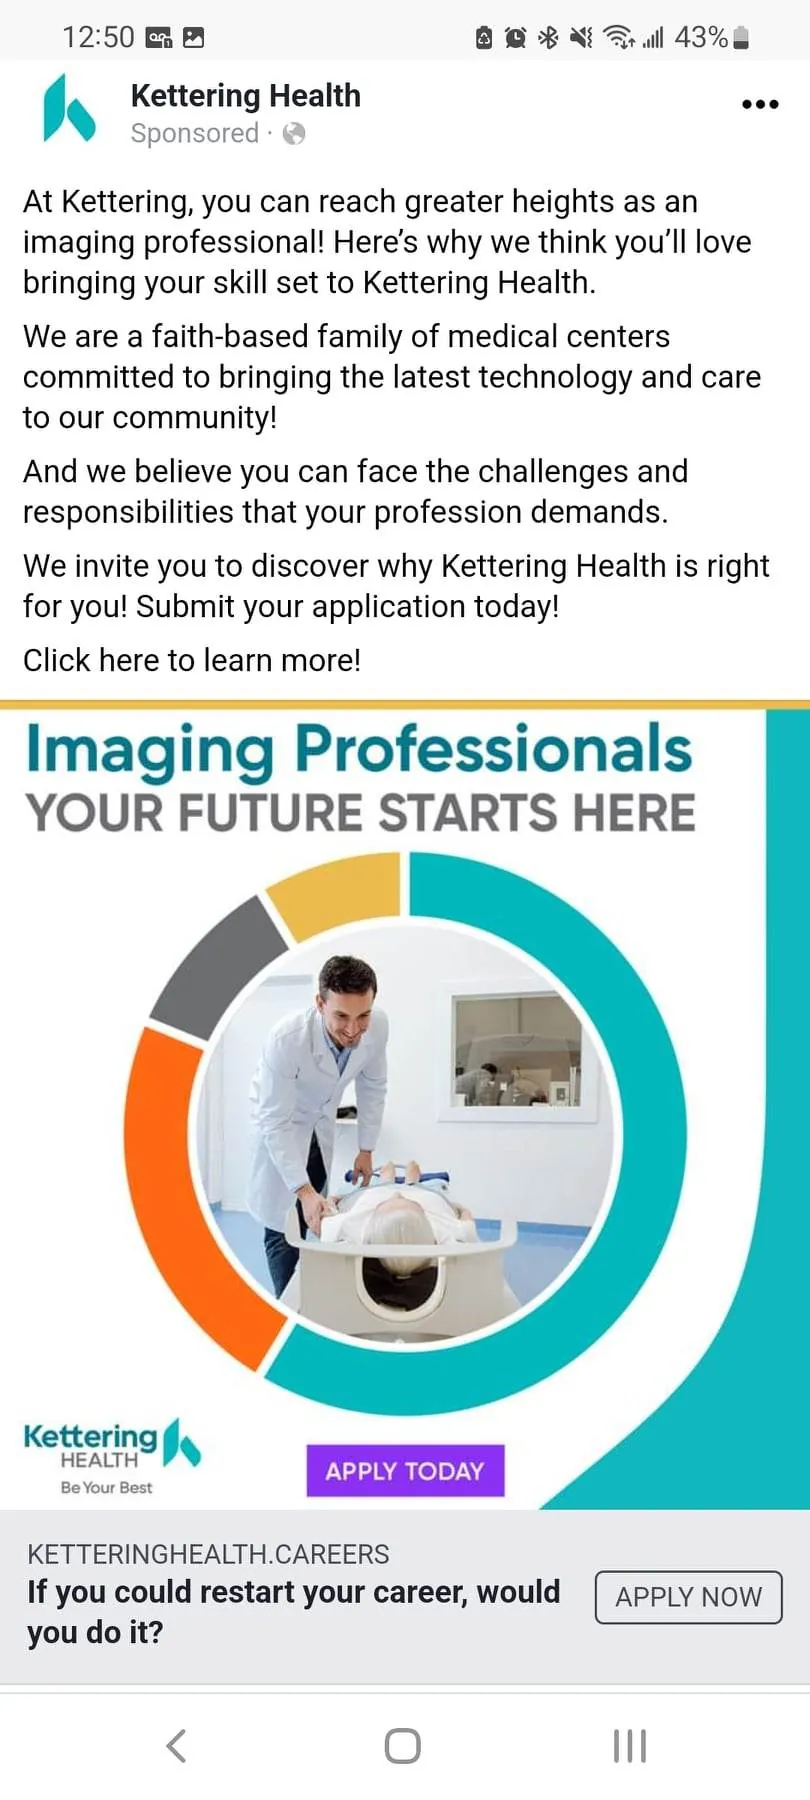
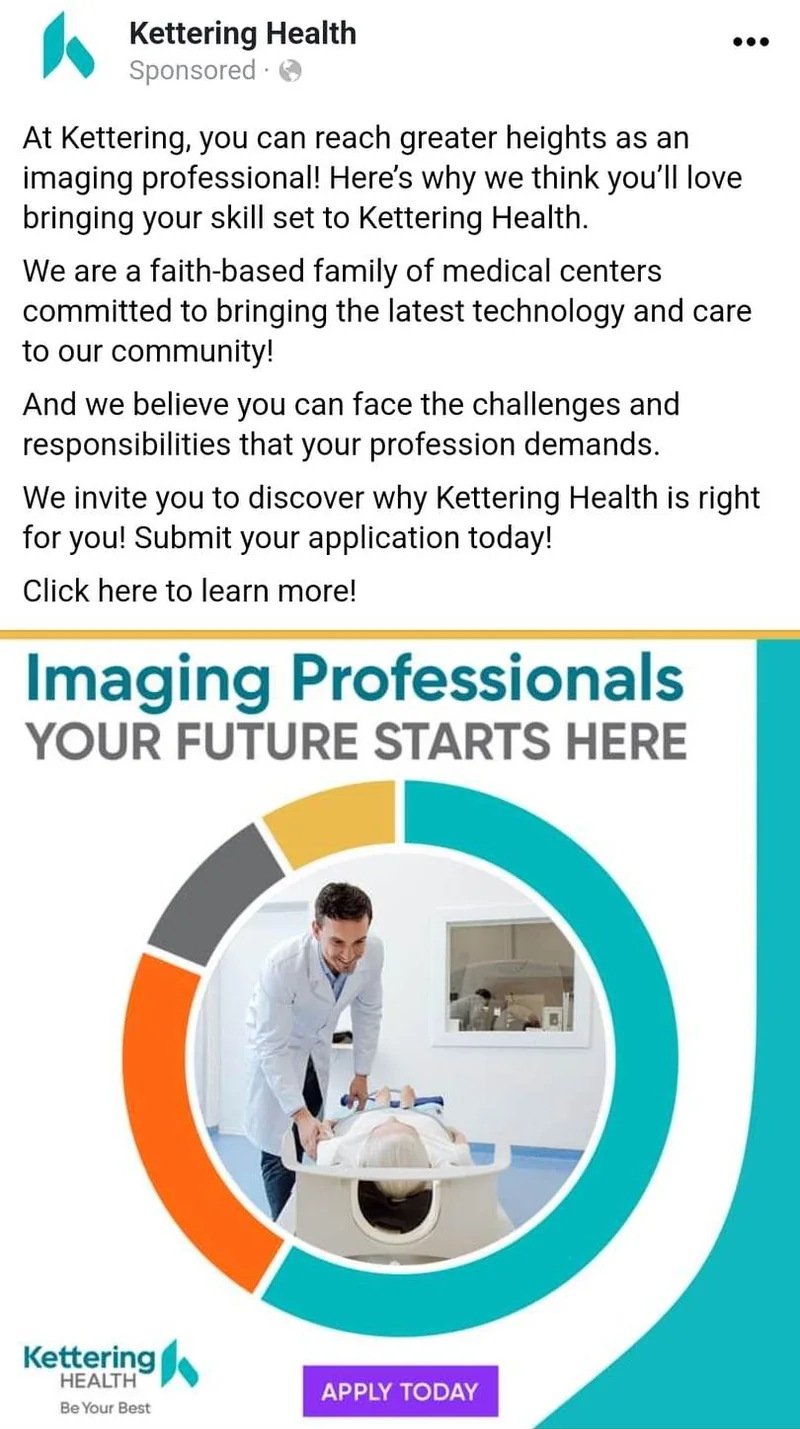
Standardize Kettering Facebook ad screenshots
Crop each ad to the post itself (no status bar, nav bar or app chrome), normalize to
800px wide, and show them in matching frames at natural height.

Claude-Session: https://claude.ai/code/session_01HwViuiWex7zkheWP3UABUj

diff --git a/index.html b/index.html
@@ -9,8 +9,8 @@
   <link rel="preconnect" href="https://fonts.googleapis.com">
   <link rel="preconnect" href="https://fonts.gstatic.com" crossorigin>
   <link href="https://fonts.googleapis.com/css2?family=Albert+Sans:wght@400;600&family=Cardo:ital,wght@0,400;0,700;1,400&family=Inter:wght@300;400;500;600;700&family=Newsreader:opsz,wght@6..72,400;6..72,500;6..72,600&display=swap" rel="stylesheet">
-  <link rel="stylesheet" href="assets/css/style.css?v=25">
-  <link rel="stylesheet" href="assets/css/home.css?v=25">
+  <link rel="stylesheet" href="assets/css/style.css?v=26">
+  <link rel="stylesheet" href="assets/css/home.css?v=26">
 </head>
 <body class="home" id="top">
   <a class="skip" href="#main">Skip to content</a>
@@ -224,7 +224,7 @@
             </ol>
           </details>
         </div>
-        <div class="shots three">
+        <div class="shots three ads">
           <figure class="shot-card"><img class="zoom" src="assets/img/ad-kh-medtech.webp" alt="Kettering Health Facebook ad recruiting medical technologists" loading="lazy"></figure>
           <figure class="shot-card"><img class="zoom" src="assets/img/ad-kh-imaging.webp" alt="Kettering Health Facebook ad recruiting imaging professionals" loading="lazy"></figure>
           <figure class="shot-card"><img class="zoom" src="assets/img/ad-kh-patient-access.webp" alt="Kettering Health Facebook ad recruiting college students for patient access roles" loading="lazy"></figure>
@@ -829,6 +829,6 @@
     </div>
 
   </main>
-  <script src="assets/js/site.js?v=25"></script>
+  <script src="assets/js/site.js?v=26"></script>
 </body>
 </html>

diff --git a/assets/css/home.css b/assets/css/home.css
@@ -424,3 +424,8 @@ div.pill { cursor: default; }
 .skill-col h3 { margin: 0 0 14px; padding-bottom: 10px; border-bottom: 2px solid var(--navy); font: 600 12px/1.3 var(--body); letter-spacing: .14em; text-transform: uppercase; color: var(--navy); text-align: center; }
 .skill-col ul { list-style: none; margin: 0; padding: 0; display: flex; flex-wrap: wrap; justify-content: center; gap: 8px; }
 .skill-col li { font: 500 13px/1 var(--body); padding: 9px 14px; border: 1px solid #b9c9db; border-radius: 999px; color: var(--navy); background: #fff; }
+
+/* Facebook ads: cropped to the post itself (no phone UI), shown at natural size in matching frames */
+.shots.ads { gap: 24px; }
+.shots.ads .shot-card { height: auto; padding: 0; overflow: hidden; border-radius: 12px; border: 1px solid #dfe3e8; background: #fff; box-shadow: 0 14px 30px -22px rgba(19, 56, 93, .5); }
+.shots.ads .shot-card img { width: 100%; max-height: none; }

diff --git a/CLAUDE.md b/CLAUDE.md
@@ -21,3 +21,4 @@
 - More components: `.viewer` (tabbed browser frame showing several pages of one site; tabs wired in `site.js`), `.shots.three/.five/.one` (screenshot galleries in fixed-height cards), `.article` cards (cover image + outlet/date + link to PDF in `assets/docs/articles/`), `.live-link`.
 - Source material: Bryan's Google Drive portfolio folder (folder id 1C3nGHUj1MAPHE_En-MVjSkKVw3_fqKE4) and the Google Site sites.google.com/view/enc6216ma2 (he wrote the Home and What You Can Do pages). The Drive 'Weber Shandwick' and 'LHH' folders are copies of other folders.
 - Kettering landing pages in the viewer are live captures of ketteringhealth.org/<location>-careers/ (tabs carry `data-live`; `.viewer-live` shows the link). Main Campus has no live page, so it uses Bryan's screenshot. chips-away-usa.com and where2network.com were unreachable (502) when checked.
+- Ad/post screenshots: crop to the post itself (from the page-name header to the end of the creative), removing phone status bars, nav buttons, app headers and link-preview strips; resize to 800px wide; show in `.shots.ads` frames at natural height.
